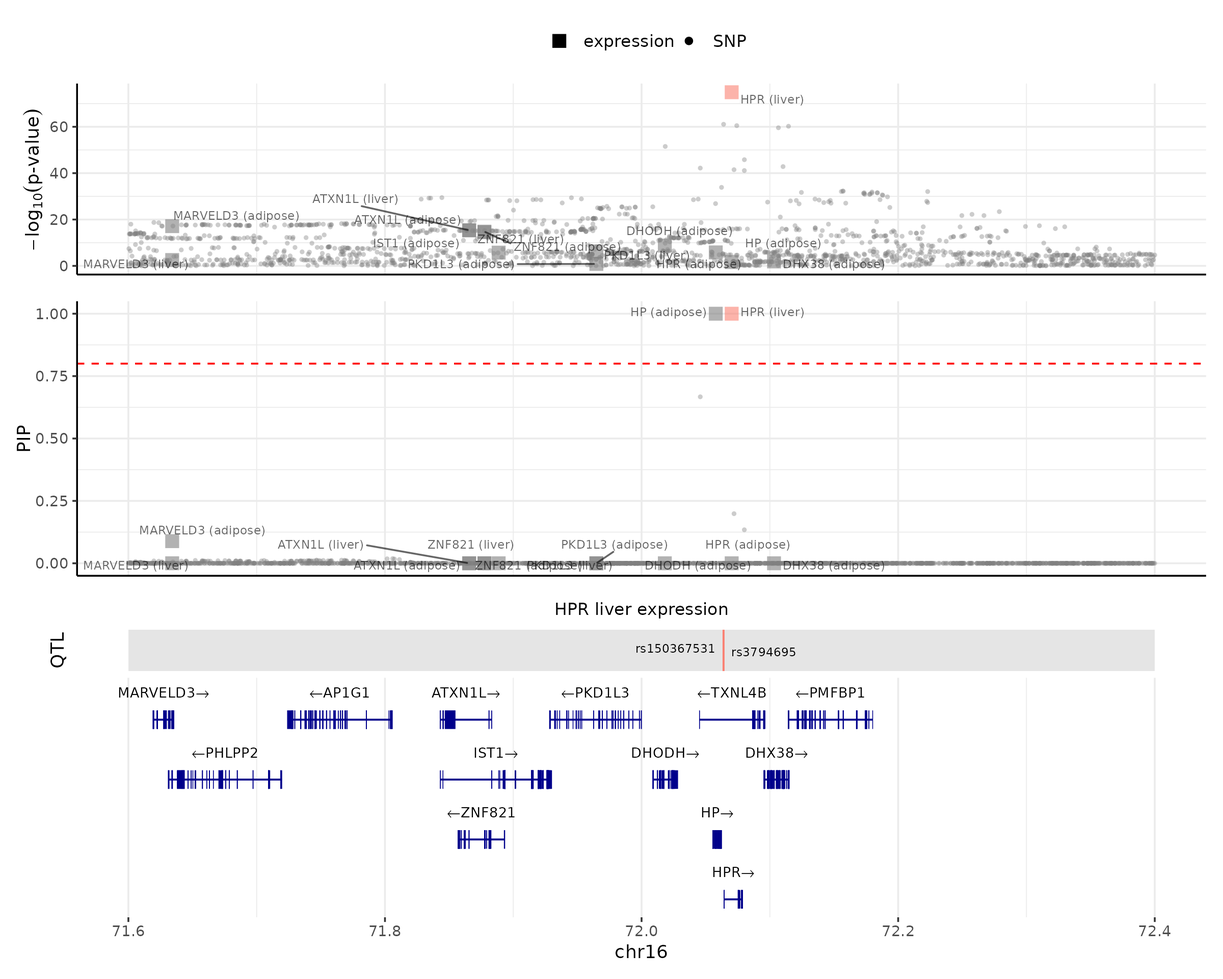
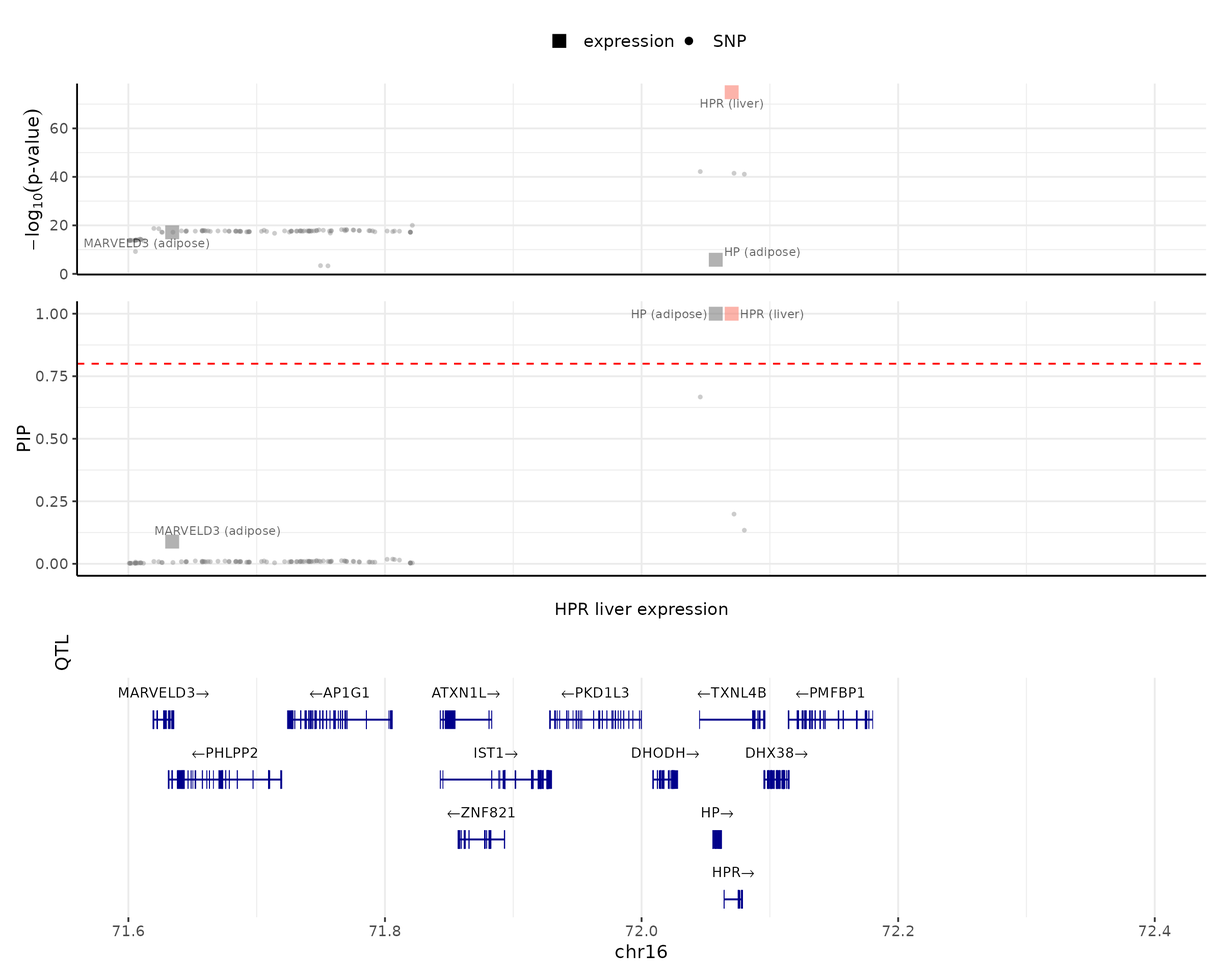
update tutorials and webpages

diff --git a/docs/articles/summarizing_results.html b/docs/articles/summarizing_results.html
@@ -89,7 +89,7 @@
       <h1 data-toc-skip>Summarizing and visualizing cTWAS results</h1>
                         <h4 data-toc-skip class="author">Kaixuan Luo, Sheng Qian</h4>
             
-            <h4 data-toc-skip class="date">2024-08-12</h4>
+            <h4 data-toc-skip class="date">2024-08-13</h4>
       
       <small class="dont-index">Source: <a href="https://github.com/xinhe-lab/ctwas/blob/multigroup/vignettes/summarizing_results.Rmd" class="external-link"><code>vignettes/summarizing_results.Rmd</code></a></small>
       <div class="hidden name"><code>summarizing_results.Rmd</code></div>
@@ -172,7 +172,7 @@
 <div class="section level2">
 <h2 id="inspecting-the-ctwas-results">Inspecting the cTWAS results<a class="anchor" aria-label="anchor" href="#inspecting-the-ctwas-results"></a>
 </h2>
-<p>We can view the molecular traits above a certain PIP cutoff, e.g. PIP &gt; 0.8, by:</p>
+<p>We can view the molecular traits above a certain PIP cutoff, e.g. PIP &gt; 0.8 and limit to credible sets, by:</p>
 <div class="sourceCode" id="cb8"><pre class="downlit sourceCode r">
 <code class="sourceCode R"><span><span class="fu"><a href="https://rdrr.io/r/base/subset.html" class="external-link">subset</a></span><span class="op">(</span><span class="va">finemap_res</span>, <span class="va">group</span> <span class="op">!=</span> <span class="st">"SNP"</span> <span class="op">&amp;</span> <span class="va">susie_pip</span> <span class="op">&gt;</span> <span class="fl">0.8</span> <span class="op">&amp;</span> <span class="va">cs_index</span> <span class="op">!=</span> <span class="fl">0</span><span class="op">)</span></span></code></pre></div>
 <pre><code><span><span class="co">##                                                       id       type context</span></span>
@@ -208,32 +208,38 @@
 <p>We then use the <code><a href="../reference/anno_finemap_res.html">anno_finemap_res()</a></code> function to add gene annotations to the fine-mapping result, and use gene mid-points to represent gene positions.</p>
 <div class="sourceCode" id="cb13"><pre class="downlit sourceCode r">
 <code class="sourceCode R"><span><span class="va">finemap_res</span> <span class="op">&lt;-</span> <span class="fu"><a href="../reference/anno_finemap_res.html">anno_finemap_res</a></span><span class="op">(</span><span class="va">finemap_res</span>, <span class="va">snp_map</span>, <span class="va">gene_annot</span>,</span>
-<span>                                use_gene_pos <span class="op">=</span> <span class="st">"mid"</span><span class="op">)</span></span></code></pre></div>
-<pre><code><span><span class="co">## 2024-08-12 17:24:36 INFO::Annotating ctwas finemapping result ...</span></span>
-<span><span class="co">## 2024-08-12 17:24:36 INFO::add gene_name and gene_type</span></span>
-<span><span class="co">## 2024-08-12 17:24:36 INFO::use gene mid positions</span></span>
-<span><span class="co">## 2024-08-12 17:24:36 INFO::add SNP positions</span></span></code></pre>
+<span>                                use_gene_pos <span class="op">=</span> <span class="st">"mid"</span>,</span>
+<span>                                drop_unannotated_genes <span class="op">=</span> <span class="cn">TRUE</span>,</span>
+<span>                                filter_protein_coding_genes <span class="op">=</span> <span class="cn">TRUE</span>,</span>
+<span>                                filter_cs <span class="op">=</span> <span class="cn">TRUE</span><span class="op">)</span></span></code></pre></div>
+<pre><code><span><span class="co">## 2024-08-13 11:03:26 INFO::Annotating ctwas finemapping result ...</span></span>
+<span><span class="co">## 2024-08-13 11:03:27 INFO::keep only protein coding genes</span></span>
+<span><span class="co">## 2024-08-13 11:03:27 INFO::keep only results in credible sets</span></span>
+<span><span class="co">## 2024-08-13 11:03:27 INFO::add gene_name and gene_type</span></span>
+<span><span class="co">## 2024-08-13 11:03:27 INFO::use gene mid positions</span></span>
+<span><span class="co">## 2024-08-13 11:03:27 INFO::add SNP positions</span></span></code></pre>
+<p>We can drop unannotated genes by setting <code>drop_unannotated_genes = TRUE</code>, limit to protein coding genes by setting <code>filter_protein_coding_genes = TRUE</code>, and limit to credible sets by setting <code>filter_cs = TRUE</code>.</p>
 <p>You can now run the command at the beginning of this section to view the genes with additional information.</p>
 <div class="sourceCode" id="cb15"><pre class="downlit sourceCode r">
 <code class="sourceCode R"><span><span class="fu"><a href="https://rdrr.io/r/base/subset.html" class="external-link">subset</a></span><span class="op">(</span><span class="va">finemap_res</span>, <span class="va">group</span> <span class="op">!=</span> <span class="st">"SNP"</span> <span class="op">&amp;</span> <span class="va">susie_pip</span> <span class="op">&gt;</span> <span class="fl">0.8</span> <span class="op">&amp;</span> <span class="va">cs_index</span> <span class="op">!=</span> <span class="fl">0</span><span class="op">)</span></span></code></pre></div>
-<pre><code><span><span class="co">##     chrom      pos            gene_id gene_name      gene_type</span></span>
-<span><span class="co">## 51     16 56972848 ENSG00000087237.10      CETP protein_coding</span></span>
-<span><span class="co">## 111    16 72070235  ENSG00000261701.6       HPR protein_coding</span></span>
-<span><span class="co">## 124    16 72057824  ENSG00000257017.8        HP protein_coding</span></span>
-<span><span class="co">##                                                     id       type context</span></span>
-<span><span class="co">## 51  ENSG00000087237.10|expression_Adipose_Subcutaneous expression adipose</span></span>
-<span><span class="co">## 111                 ENSG00000261701.6|expression_Liver expression   liver</span></span>
-<span><span class="co">## 124  ENSG00000257017.8|expression_Adipose_Subcutaneous expression adipose</span></span>
-<span><span class="co">##                  group          z            region_id susie_pip      mu2</span></span>
-<span><span class="co">## 51  expression|adipose  13.749840 16_55869862_57630418 0.9999483 145.7879</span></span>
-<span><span class="co">## 111   expression|liver -18.403150 16_71020125_72901251 1.0000000 474.3442</span></span>
-<span><span class="co">## 124 expression|adipose  -4.810203 16_71020125_72901251 1.0000000 420.6018</span></span>
-<span><span class="co">##     cs_index</span></span>
-<span><span class="co">## 51         1</span></span>
-<span><span class="co">## 111        1</span></span>
-<span><span class="co">## 124        3</span></span></code></pre>
+<pre><code><span><span class="co">##   chrom      pos            gene_id gene_name      gene_type</span></span>
+<span><span class="co">## 1    16 56972848 ENSG00000087237.10      CETP protein_coding</span></span>
+<span><span class="co">## 2    16 72070235  ENSG00000261701.6       HPR protein_coding</span></span>
+<span><span class="co">## 4    16 72057824  ENSG00000257017.8        HP protein_coding</span></span>
+<span><span class="co">##                                                   id       type context</span></span>
+<span><span class="co">## 1 ENSG00000087237.10|expression_Adipose_Subcutaneous expression adipose</span></span>
+<span><span class="co">## 2                 ENSG00000261701.6|expression_Liver expression   liver</span></span>
+<span><span class="co">## 4  ENSG00000257017.8|expression_Adipose_Subcutaneous expression adipose</span></span>
+<span><span class="co">##                group          z            region_id susie_pip      mu2</span></span>
+<span><span class="co">## 1 expression|adipose  13.749840 16_55869862_57630418 0.9999483 145.7879</span></span>
+<span><span class="co">## 2   expression|liver -18.403150 16_71020125_72901251 1.0000000 474.3442</span></span>
+<span><span class="co">## 4 expression|adipose  -4.810203 16_71020125_72901251 1.0000000 420.6018</span></span>
+<span><span class="co">##   cs_index</span></span>
+<span><span class="co">## 1        1</span></span>
+<span><span class="co">## 2        1</span></span>
+<span><span class="co">## 4        3</span></span></code></pre>
 <p>In this example, HPR gene in liver, HP gene in adipose, and CETP gene in adipose are the only three genes that satisfy this threshold.</p>
-<p>When we have multiple contexts (tissues), it is useful to evaluate the total evidence of a gene being causal, <em>combining evidence of all the molecular traits affecting this gene across all types and contexts.</em> This is done by summing up the PIPs of all these molecular traits of the same gene, expressed as the combined PIP of this gene.</p>
+<p>When we have multiple contexts (tissues), it is useful to evaluate the total evidence of a gene being causal, <em>combining evidence of all the molecular traits affecting this gene across all types and contexts.</em> We compute combined PIPs of all these molecular traits of the same gene, using the following formula: <math display="inline" xmlns="http://www.w3.org/1998/Math/MathML"><semantics><mrow><mn>1</mn><mo>−</mo><msub><mo>∏</mo><mi>k</mi></msub><mo stretchy="false" form="prefix">(</mo><mn>1</mn><mo>−</mo><msub><mtext mathvariant="normal">PIP</mtext><mi>k</mi></msub><mo stretchy="false" form="postfix">)</mo></mrow><annotation encoding="application/x-tex">1 - \prod_k (1 - \text{PIP}_k)</annotation></semantics></math>, where <math display="inline" xmlns="http://www.w3.org/1998/Math/MathML"><semantics><msub><mtext mathvariant="normal">PIP</mtext><mi>k</mi></msub><annotation encoding="application/x-tex">\text{PIP}_k</annotation></semantics></math> is the PIP of the <math display="inline" xmlns="http://www.w3.org/1998/Math/MathML"><semantics><mi>k</mi><annotation encoding="application/x-tex">k</annotation></semantics></math>-th molecular trait of a gene.</p>
 <p>For example, we can combine PIPs of the same gene by context. We could limit results in protein coding genes by setting <code>filter_protein_coding_genes = TRUE</code>, and limit results in credible sets by setting <code>filter_cs = TRUE</code>.</p>
 <div class="sourceCode" id="cb17"><pre class="downlit sourceCode r">
 <code class="sourceCode R"><span><span class="va">combined_pip_by_context</span> <span class="op">&lt;-</span> <span class="fu"><a href="../reference/combine_gene_pips.html">combine_gene_pips</a></span><span class="op">(</span><span class="va">finemap_res</span>, </span>
@@ -271,11 +277,11 @@
 <span>               highlight_pip <span class="op">=</span> <span class="fl">0.8</span>,</span>
 <span>               R_snp_gene <span class="op">=</span> <span class="va">cor_res</span><span class="op">$</span><span class="va">R_snp_gene</span>,</span>
 <span>               R_gene <span class="op">=</span> <span class="va">cor_res</span><span class="op">$</span><span class="va">R_gene</span><span class="op">)</span></span></code></pre></div>
-<pre><code><span><span class="co">## 2024-08-12 17:24:38 INFO::focal gene: HPR</span></span>
-<span><span class="co">## 2024-08-12 17:24:38 INFO::focal id: ENSG00000261701.6|expression_Liver</span></span>
-<span><span class="co">## 2024-08-12 17:24:38 INFO::plot locus range: chr16 71600000,72400000</span></span>
-<span><span class="co">## 2024-08-12 17:24:38 INFO::HPR liver expression QTLs</span></span>
-<span><span class="co">## 2024-08-12 17:24:38 INFO::QTL positions: 72063820,72063928</span></span></code></pre>
+<pre><code><span><span class="co">## 2024-08-13 11:03:28 INFO::focal gene: HPR</span></span>
+<span><span class="co">## 2024-08-13 11:03:28 INFO::focal id: ENSG00000261701.6|expression_Liver</span></span>
+<span><span class="co">## 2024-08-13 11:03:28 INFO::plot locus range: chr16 71600000,72400000</span></span>
+<span><span class="co">## 2024-08-13 11:03:31 INFO::HPR liver expression QTLs</span></span>
+<span><span class="co">## 2024-08-13 11:03:31 INFO::QTL positions:</span></span></code></pre>
 <div class="figure" style="text-align: center">
 <img src="summarizing_results_files/figure-html/locus_plot-1.png" alt="&amp;nbsp;" width="1200"><p class="caption">
  
@@ -291,11 +297,11 @@
 <span>               ens_db <span class="op">=</span> <span class="va">ens_db</span>,</span>
 <span>               locus_range <span class="op">=</span> <span class="fu"><a href="https://rdrr.io/r/base/c.html" class="external-link">c</a></span><span class="op">(</span><span class="fl">71.6e6</span>,<span class="fl">72.4e6</span><span class="op">)</span>,</span>
 <span>               highlight_pip <span class="op">=</span> <span class="fl">0.8</span><span class="op">)</span></span></code></pre></div>
-<pre><code><span><span class="co">## 2024-08-12 17:24:40 INFO::focal gene: HPR</span></span>
-<span><span class="co">## 2024-08-12 17:24:40 INFO::focal id: ENSG00000261701.6|expression_Liver</span></span>
-<span><span class="co">## 2024-08-12 17:24:40 INFO::plot locus range: chr16 71600000,72400000</span></span>
-<span><span class="co">## 2024-08-12 17:24:40 INFO::HPR liver expression QTLs</span></span>
-<span><span class="co">## 2024-08-12 17:24:40 INFO::QTL positions: 72063820,72063928</span></span></code></pre>
+<pre><code><span><span class="co">## 2024-08-13 11:03:32 INFO::focal gene: HPR</span></span>
+<span><span class="co">## 2024-08-13 11:03:32 INFO::focal id: ENSG00000261701.6|expression_Liver</span></span>
+<span><span class="co">## 2024-08-13 11:03:32 INFO::plot locus range: chr16 71600000,72400000</span></span>
+<span><span class="co">## 2024-08-13 11:03:32 INFO::HPR liver expression QTLs</span></span>
+<span><span class="co">## 2024-08-13 11:03:32 INFO::QTL positions:</span></span></code></pre>
 <div class="figure" style="text-align: center">
 <img src="summarizing_results_files/figure-html/locus_plot_noLD-1.png" alt="&amp;nbsp;" width="1200"><p class="caption">
  

diff --git a/docs/articles/running_ctwas_analysis.html b/docs/articles/running_ctwas_analysis.html
@@ -89,7 +89,7 @@
       <h1 data-toc-skip>Running cTWAS analysis</h1>
                         <h4 data-toc-skip class="author">Kaixuan Luo, Sheng Qian</h4>
             
-            <h4 data-toc-skip class="date">2024-08-12</h4>
+            <h4 data-toc-skip class="date">2024-08-13</h4>
       
       <small class="dont-index">Source: <a href="https://github.com/xinhe-lab/ctwas/blob/multigroup/vignettes/running_ctwas_analysis.Rmd" class="external-link"><code>vignettes/running_ctwas_analysis.Rmd</code></a></small>
       <div class="hidden name"><code>running_ctwas_analysis.Rmd</code></div>
@@ -135,6 +135,7 @@
 <span>                            filter_L <span class="op">=</span> <span class="cn">TRUE</span>,</span>
 <span>                            filter_nonSNP_PIP <span class="op">=</span> <span class="cn">FALSE</span>,</span>
 <span>                            min_nonSNP_PIP <span class="op">=</span> <span class="fl">0.5</span>,</span>
+<span>                            min_abs_corr <span class="op">=</span> <span class="fl">0.1</span>, </span>
 <span>                            ncore <span class="op">=</span> <span class="fl">6</span>, </span>
 <span>                            ncore_LD <span class="op">=</span> <span class="fl">4</span>,</span>
 <span>                            save_cor <span class="op">=</span> <span class="cn">TRUE</span>, </span>
@@ -146,7 +147,8 @@
 <li><p><code>maxSNP</code>: maximum number of SNPs in a region (e.g. 20000). Default is Inf, no limit. This can be useful if there are too many SNPs in a region and you don’t have enough memory to run the program.</p></li>
 <li><p><code>group_prior_var_stucture</code>: options to control how parameters are shared among groups. For example, “shared_type” (default option) allows all groups in one molecular QTL type to share the same variance parameter. “independent” allows all groups to have their own separate variance parameters. More options can be found in the Reference page of the function.</p></li>
 <li><p><code>filter_L</code>: if <code>filter_L = TRUE</code> (the default option), cTWAS will first estimate the number of causal signals (<code>L</code>) for each region. This step is done using uniform prior, treating all variants and genes equally. From the results, we obtain the number of credible sets (<code>L</code>). We then select regions with at least one credible set, L &gt; 0.</p></li>
-<li><p><code>filter_nonSNP_PIP</code> and <code>min_nonSNP_PIP</code>: if <code>filter_nonSNP_PIP = TRUE</code>, it will compute the non-SNP PIP, i.e. the total PIP of all molecular traits, for each region (using the estimated parameters) and select regions with non-SNP PIP &gt; <code>min_nonSNP_PIP</code> (0.5 by default`).</p></li>
+<li><p><code>filter_nonSNP_PIP</code> and <code>min_nonSNP_PIP</code>: if <code>filter_nonSNP_PIP = TRUE</code>, it will compute the non-SNP PIP, i.e. the total PIP of all molecular traits, for each region (using the estimated parameters) and select regions with non-SNP PIP &gt; <code>min_nonSNP_PIP</code> (0.5 by default).</p></li>
+<li><p><code>min_abs_corr</code>: Minimum absolute correlation allowed in a credible set. cTWAs jointly fine-maps both SNPs and molecular traits, the correlations between SNPs and molecular traits could be lower than standard fine-mapping with SNPs. We use a lower cutoff (0.1 by default) to avoid missing causal genes.</p></li>
 <li><p><code>ncore</code>: the number of cores to parallelize computing over regions.</p></li>
 <li><p><code>ncore_LD</code>: the number of cores to parallelize computing over regions with LD matrices. During screening regions and fine-mapping steps, computing correlation matrices requires larger memory. You could reduce the number of cores for these steps to avoid insufficient memory.</p></li>
 <li><p><code>save_cor</code> and <code>cor_dir</code>: if <code>save_cor = TRUE</code>, we save the correlation matrices in the <code>cor_dir</code>directory, which will be used later for visualizing the results.</p></li>
@@ -213,7 +215,7 @@
 <p>After parameter estimation, we use the <code><a href="../reference/screen_regions.html">screen_regions()</a></code> function to perform a screening process to select regions with likely causal signals in molecular traits. To find these regions, we perform an initial fine-mapping with thinned SNPs (a subset of all variants, see the Section “Assemble input data”). Only these regions would be subject to full fine-mapping analysis, using all variants, in the final step. Thus screening regions can save computational time.</p>
 <p>cTWAS have two options to screen regions:</p>
 <ul>
-<li><p>screening by the number of causal signals: if <code>filter_L = TRUE</code> (the default option), cTWAS will first estimate the number of causal signals (<code>L</code>) for each region. This step is done using uniform prior (<code>group_prior = NULL</code> and <code>group_prior_var = NULL</code>), treating all variants and molecular traits equally. From the results, we obtain the number of credible sets (<code>L</code>). We then select regions with at least one credible set, L &gt; 0.</p></li>
+<li><p>screening by the number of causal signals: if <code>filter_L = TRUE</code> (the default option), cTWAS will first estimate the number of causal signals (<code>L</code>) for each region. This step is done by running fine-mapping using uniform prior (<code>group_prior = NULL</code> and <code>group_prior_var = NULL</code>), treating all variants and molecular traits equally. From the results, we obtain the number of credible sets (<code>L</code>). We then select regions with at least one credible set, L &gt; 0.</p></li>
 <li><p>screening by non-SNP PIPs: if <code>filter_nonSNP_PIP = TRUE</code>, cTWAS will compute the non-SNP PIP, i.e. total PIP of all molecular traits, for each region (using estimated L and estimated priors). It then selects regions by applying a <code>min_nonSNP_PIP</code> cutoff (0.5, by default).</p></li>
 </ul>
 <p>When running with LD, we recommend screening by the number of causal signals, i.e. setting <code>filter_L = TRUE</code> and <code>filter_nonSNP_PIP = FALSE</code>.</p>
@@ -223,6 +225,7 @@
 <span>                             weights <span class="op">=</span> <span class="va">weights</span>, </span>
 <span>                             filter_L <span class="op">=</span> <span class="cn">TRUE</span>,</span>
 <span>                             filter_nonSNP_PIP <span class="op">=</span> <span class="cn">FALSE</span>,</span>
+<span>                             min_abs_corr <span class="op">=</span> <span class="fl">0.1</span>, </span>
 <span>                             group_prior <span class="op">=</span> <span class="cn">NULL</span>,</span>
 <span>                             group_prior_var <span class="op">=</span> <span class="cn">NULL</span>, </span>
 <span>                             ncore <span class="op">=</span> <span class="fl">4</span><span class="op">)</span></span>
@@ -230,6 +233,7 @@
 <span><span class="va">screened_region_L</span> <span class="op">&lt;-</span> <span class="va">screen_res</span><span class="op">$</span><span class="va">screened_region_L</span></span>
 <span><span class="va">screen_summary</span> <span class="op">&lt;-</span> <span class="va">screen_res</span><span class="op">$</span><span class="va">screen_summary</span></span></code></pre></div>
 <p>It returns <code>screened_region_data</code> which contains a subset of region data for selected regions. It also returns the estimated L (number of credible sets) for the selected regions, which could be used in the fine-mapping step to set L for each region. In addition, it returns a data frame <code>screen_summary</code>, which includes the estimated L and non-SNP PIPs for all the regions.</p>
+<p>Note, cTWAs jointly fine-maps both SNPs and molecular traits, the correlations between SNPs and molecular traits could be lower than standard fine-mapping with SNPs. Thus, we set a lower purity cutoff (default option: <code>min_abs_corr = 0.1</code>) for obtaining credible sets to avoid missing causal genes.</p>
 <p>When running without LD, we could use the <code><a href="../reference/screen_regions_noLD.html">screen_regions_noLD()</a></code> function; it would only perform screening regions by non-SNP PIPs.</p>
 <div class="sourceCode" id="cb8"><pre class="downlit sourceCode r">
 <code class="sourceCode R"><span><span class="va">screen_res</span> <span class="op">&lt;-</span> <span class="fu"><a href="../reference/screen_regions_noLD.html">screen_regions_noLD</a></span><span class="op">(</span><span class="va">region_data</span>,</span>
@@ -256,15 +260,17 @@
 <p>We now perform the fine-mapping step for each of the screened regions with the estimated parameters.</p>
 <p>The <code><a href="../reference/finemap_regions.html">finemap_regions()</a></code> function performs fine-mapping for the regions in the <code>screened_region_data</code>.</p>
 <p>It first computes correlation matrices among all variables included in fine-mapping (SNPs, and molecular traits), then runs fine-mapping with estimated parameters (<code>group_prior</code> and <code>group_prior_var</code>) and estimated number of causal signals (<code>L</code>), and returns a data frame with fine-mapping results for the regions.</p>
-<div class="sourceCode" id="cb10"><pre class="sourceCode r"><code class="sourceCode r"><span id="cb10-1"><a href="#cb10-1"></a>finemap_res &lt;-<span class="st"> </span><span class="kw">finemap_regions</span>(screened_region_data,</span>
-<span id="cb10-2"><a href="#cb10-2"></a>                               <span class="dt">LD_map =</span> LD_map,</span>
-<span id="cb10-3"><a href="#cb10-3"></a>                               <span class="dt">weights =</span> weights,</span>
-<span id="cb10-4"><a href="#cb10-4"></a>                               <span class="dt">group_prior =</span> group_prior,</span>
-<span id="cb10-5"><a href="#cb10-5"></a>                               <span class="dt">group_prior_var =</span> group_prior_var,</span>
-<span id="cb10-6"><a href="#cb10-6"></a>                               <span class="dt">L =</span> screened_region_L</span>
-<span id="cb10-7"><a href="#cb10-7"></a>                               <span class="dt">save_cor =</span> <span class="ot">TRUE</span>,</span>
-<span id="cb10-8"><a href="#cb10-8"></a>                               <span class="dt">cor_dir =</span> <span class="st">"./cor_matrix"</span>,</span>
-<span id="cb10-9"><a href="#cb10-9"></a>                               <span class="dt">ncore =</span> <span class="dv">4</span>)</span></code></pre></div>
+<div class="sourceCode" id="cb10"><pre class="downlit sourceCode r">
+<code class="sourceCode R"><span><span class="va">finemap_res</span> <span class="op">&lt;-</span> <span class="fu"><a href="../reference/finemap_regions.html">finemap_regions</a></span><span class="op">(</span><span class="va">screened_region_data</span>,</span>
+<span>                               LD_map <span class="op">=</span> <span class="va">LD_map</span>,</span>
+<span>                               weights <span class="op">=</span> <span class="va">weights</span>,</span>
+<span>                               group_prior <span class="op">=</span> <span class="va">group_prior</span>,</span>
+<span>                               group_prior_var <span class="op">=</span> <span class="va">group_prior_var</span>,</span>
+<span>                               L <span class="op">=</span> <span class="va">screened_region_L</span>,</span>
+<span>                               min_abs_corr <span class="op">=</span> <span class="fl">0.1</span>, </span>
+<span>                               save_cor <span class="op">=</span> <span class="cn">TRUE</span>,</span>
+<span>                               cor_dir <span class="op">=</span> <span class="st">"./cor_matrix"</span>,</span>
+<span>                               ncore <span class="op">=</span> <span class="fl">4</span><span class="op">)</span></span></code></pre></div>
 <p>We can save the computed correlation matrices to the directory <code>cor_dir</code> for future access, by setting <code>save_cor = TRUE</code>.</p>
 <p><em>Note:</em> when screening regions and fine-mapping with LD, we need larger memory to load LD matrices and compute correlation matrices. So we recommend increasing memory or reducing the number of <code>ncore</code> for these steps.</p>
 <p><em>Note:</em> we could use the <code><a href="../reference/finemap_regions_noLD.html">finemap_regions_noLD()</a></code> function to run fine-mapping without LD:</p>

diff --git a/docs/articles/minimal_tutorial.html b/docs/articles/minimal_tutorial.html
@@ -89,7 +89,7 @@
       <h1 data-toc-skip>A minimal tutorial of running cTWAS without LD</h1>
                         <h4 data-toc-skip class="author">Kaixuan Luo, Sheng Qian</h4>
             
-            <h4 data-toc-skip class="date">2024-08-12</h4>
+            <h4 data-toc-skip class="date">2024-08-13</h4>
       
       <small class="dont-index">Source: <a href="https://github.com/xinhe-lab/ctwas/blob/multigroup/vignettes/minimal_tutorial.Rmd" class="external-link"><code>vignettes/minimal_tutorial.Rmd</code></a></small>
       <div class="hidden name"><code>minimal_tutorial.Rmd</code></div>
@@ -163,14 +163,14 @@
 <p>The GWAS summary statistics needs to be “harmonized” before use. This means, for example, the allele definitions need to be consistent with the reference SNP data in <code>snp_map</code>. Harmonization is achieved through the <code><a href="../reference/preprocess_z_snp.html">preprocess_z_snp()</a></code> function. We filter out multiallelic variants and strand-ambiguous variants by default.</p>
 <div class="sourceCode" id="cb8"><pre class="downlit sourceCode r">
 <code class="sourceCode R"><span><span class="va">z_snp</span> <span class="op">&lt;-</span> <span class="fu"><a href="../reference/preprocess_z_snp.html">preprocess_z_snp</a></span><span class="op">(</span><span class="va">z_snp</span>, <span class="va">snp_map</span><span class="op">)</span></span></code></pre></div>
-<pre><code><span><span class="co">## 2024-08-12 17:20:53 INFO::Preprocessing z_snp...</span></span>
-<span><span class="co">## 2024-08-12 17:20:53 INFO::z_snp has 407828 variants in total</span></span>
-<span><span class="co">## 2024-08-12 17:20:53 INFO::267361 variants left after filtering by snp_map</span></span>
-<span><span class="co">## 2024-08-12 17:20:53 INFO::Drop 30 multiallelic variants</span></span>
-<span><span class="co">## 2024-08-12 17:20:54 INFO::Harmonize 267331 variants in both GWAS and LD reference</span></span>
-<span><span class="co">## 2024-08-12 17:20:54 INFO::Flip signs for 267289 (99.98%) variants</span></span>
-<span><span class="co">## 2024-08-12 17:20:54 INFO::Remove 45738 strand ambiguous variants</span></span>
-<span><span class="co">## 2024-08-12 17:20:54 INFO::221593 variants left after preprocessing and harmonization.</span></span></code></pre>
+<pre><code><span><span class="co">## 2024-08-13 10:59:40 INFO::Preprocessing z_snp...</span></span>
+<span><span class="co">## 2024-08-13 10:59:40 INFO::z_snp has 407828 variants in total</span></span>
+<span><span class="co">## 2024-08-13 10:59:40 INFO::267361 variants left after filtering by snp_map</span></span>
+<span><span class="co">## 2024-08-13 10:59:40 INFO::Drop 30 multiallelic variants</span></span>
+<span><span class="co">## 2024-08-13 10:59:41 INFO::Harmonize 267331 variants in both GWAS and LD reference</span></span>
+<span><span class="co">## 2024-08-13 10:59:41 INFO::Flip signs for 267289 (99.98%) variants</span></span>
+<span><span class="co">## 2024-08-13 10:59:41 INFO::Remove 45738 strand ambiguous variants</span></span>
+<span><span class="co">## 2024-08-13 10:59:41 INFO::221593 variants left after preprocessing and harmonization.</span></span></code></pre>
 </div>
 <div class="section level3">
 <h3 id="prediction-models-of-molecular-traits">Prediction models of molecular traits<a class="anchor" aria-label="anchor" href="#prediction-models-of-molecular-traits"></a>
@@ -186,18 +186,18 @@
 <span>                                    <span class="va">snp_map</span>,</span>
 <span>                                    type <span class="op">=</span> <span class="st">"expression"</span>,</span>
 <span>                                    context <span class="op">=</span> <span class="st">"liver"</span><span class="op">)</span></span></code></pre></div>
-<pre><code><span><span class="co">## 2024-08-12 17:20:55 INFO::Load weight: /tmp/jobs/41340764/RtmpPwpRdJ/temp_libpath9a06d2217d0/ctwas/extdata/sample_data/expression_Liver.db</span></span>
-<span><span class="co">## 2024-08-12 17:20:55 INFO::type: expression</span></span>
-<span><span class="co">## 2024-08-12 17:20:55 INFO::context: liver</span></span>
-<span><span class="co">## 2024-08-12 17:20:55 INFO::Loading PredictDB weights ...</span></span>
-<span><span class="co">## 2024-08-12 17:20:55 INFO::Keep protein coding genes only</span></span>
-<span><span class="co">## 2024-08-12 17:20:55 INFO::weight_name: expression_Liver</span></span>
-<span><span class="co">## 2024-08-12 17:20:55 INFO::Remove 1 genes without predictdb LD</span></span>
-<span><span class="co">## 2024-08-12 17:20:55 INFO::Number of genes with weights: 11479</span></span>
-<span><span class="co">## 2024-08-12 17:20:55 INFO::Number of variants in weights: 16929</span></span>
-<span><span class="co">## 2024-08-12 17:20:55 INFO::529 genes and 410 variants left after filtering by GWAS and LD reference</span></span>
-<span><span class="co">## 2024-08-12 17:20:55 INFO::Harmonizing and processing weights ...</span></span>
-<span><span class="co">## 2024-08-12 17:20:56 INFO::Number of genes with weights after preprocessing: 410</span></span></code></pre>
+<pre><code><span><span class="co">## 2024-08-13 10:59:41 INFO::Load weight: /tmp/jobs/41346776/RtmpfymbN0/temp_libpathda1343f4466e/ctwas/extdata/sample_data/expression_Liver.db</span></span>
+<span><span class="co">## 2024-08-13 10:59:41 INFO::type: expression</span></span>
+<span><span class="co">## 2024-08-13 10:59:41 INFO::context: liver</span></span>
+<span><span class="co">## 2024-08-13 10:59:41 INFO::Loading PredictDB weights ...</span></span>
+<span><span class="co">## 2024-08-13 10:59:42 INFO::Keep protein coding genes only</span></span>
+<span><span class="co">## 2024-08-13 10:59:42 INFO::weight_name: expression_Liver</span></span>
+<span><span class="co">## 2024-08-13 10:59:42 INFO::Remove 1 genes without predictdb LD</span></span>
+<span><span class="co">## 2024-08-13 10:59:42 INFO::Number of genes with weights: 11479</span></span>
+<span><span class="co">## 2024-08-13 10:59:42 INFO::Number of variants in weights: 16929</span></span>
+<span><span class="co">## 2024-08-13 10:59:42 INFO::529 genes and 410 variants left after filtering by GWAS and LD reference</span></span>
+<span><span class="co">## 2024-08-13 10:59:42 INFO::Harmonizing and processing weights ...</span></span>
+<span><span class="co">## 2024-08-13 10:59:43 INFO::Number of genes with weights after preprocessing: 410</span></span></code></pre>
 <div class="sourceCode" id="cb12"><pre class="downlit sourceCode r">
 <code class="sourceCode R"><span><span class="va">weight_adipose_file</span> <span class="op">&lt;-</span> <span class="fu"><a href="https://rdrr.io/r/base/system.file.html" class="external-link">system.file</a></span><span class="op">(</span><span class="st">"extdata/sample_data"</span>, <span class="st">"expression_Adipose_Subcutaneous.db"</span>, package <span class="op">=</span> <span class="st">"ctwas"</span><span class="op">)</span></span>
 <span><span class="va">weights_adipose</span> <span class="op">&lt;-</span> <span class="fu"><a href="../reference/preprocess_weights.html">preprocess_weights</a></span><span class="op">(</span><span class="va">weight_adipose_file</span>,</span>
@@ -206,18 +206,18 @@
 <span>                                      <span class="va">snp_map</span>,</span>
 <span>                                      type <span class="op">=</span> <span class="st">"expression"</span>,</span>
 <span>                                      context <span class="op">=</span> <span class="st">"adipose"</span><span class="op">)</span></span></code></pre></div>
-<pre><code><span><span class="co">## 2024-08-12 17:20:56 INFO::Load weight: /tmp/jobs/41340764/RtmpPwpRdJ/temp_libpath9a06d2217d0/ctwas/extdata/sample_data/expression_Adipose_Subcutaneous.db</span></span>
-<span><span class="co">## 2024-08-12 17:20:56 INFO::type: expression</span></span>
-<span><span class="co">## 2024-08-12 17:20:56 INFO::context: adipose</span></span>
-<span><span class="co">## 2024-08-12 17:20:56 INFO::Loading PredictDB weights ...</span></span>
-<span><span class="co">## 2024-08-12 17:20:56 INFO::Keep protein coding genes only</span></span>
-<span><span class="co">## 2024-08-12 17:20:56 INFO::weight_name: expression_Adipose_Subcutaneous</span></span>
-<span><span class="co">## 2024-08-12 17:20:56 INFO::Remove 0 genes without predictdb LD</span></span>
-<span><span class="co">## 2024-08-12 17:20:56 INFO::Number of genes with weights: 13102</span></span>
-<span><span class="co">## 2024-08-12 17:20:56 INFO::Number of variants in weights: 23737</span></span>
-<span><span class="co">## 2024-08-12 17:20:56 INFO::720 genes and 484 variants left after filtering by GWAS and LD reference</span></span>
-<span><span class="co">## 2024-08-12 17:20:56 INFO::Harmonizing and processing weights ...</span></span>
-<span><span class="co">## 2024-08-12 17:20:58 INFO::Number of genes with weights after preprocessing: 484</span></span></code></pre>
+<pre><code><span><span class="co">## 2024-08-13 10:59:43 INFO::Load weight: /tmp/jobs/41346776/RtmpfymbN0/temp_libpathda1343f4466e/ctwas/extdata/sample_data/expression_Adipose_Subcutaneous.db</span></span>
+<span><span class="co">## 2024-08-13 10:59:43 INFO::type: expression</span></span>
+<span><span class="co">## 2024-08-13 10:59:43 INFO::context: adipose</span></span>
+<span><span class="co">## 2024-08-13 10:59:43 INFO::Loading PredictDB weights ...</span></span>
+<span><span class="co">## 2024-08-13 10:59:43 INFO::Keep protein coding genes only</span></span>
+<span><span class="co">## 2024-08-13 10:59:43 INFO::weight_name: expression_Adipose_Subcutaneous</span></span>
+<span><span class="co">## 2024-08-13 10:59:43 INFO::Remove 0 genes without predictdb LD</span></span>
+<span><span class="co">## 2024-08-13 10:59:43 INFO::Number of genes with weights: 13102</span></span>
+<span><span class="co">## 2024-08-13 10:59:43 INFO::Number of variants in weights: 23737</span></span>
+<span><span class="co">## 2024-08-13 10:59:43 INFO::720 genes and 484 variants left after filtering by GWAS and LD reference</span></span>
+<span><span class="co">## 2024-08-13 10:59:43 INFO::Harmonizing and processing weights ...</span></span>
+<span><span class="co">## 2024-08-13 10:59:44 INFO::Number of genes with weights after preprocessing: 484</span></span></code></pre>
 <div class="sourceCode" id="cb14"><pre class="downlit sourceCode r">
 <code class="sourceCode R"><span><span class="va">weights</span> <span class="op">&lt;-</span> <span class="fu"><a href="https://rdrr.io/r/base/c.html" class="external-link">c</a></span><span class="op">(</span><span class="va">weights_liver</span>, <span class="va">weights_adipose</span><span class="op">)</span></span></code></pre></div>
 </div>

diff --git a/docs/articles/preparing_input_data.html b/docs/articles/preparing_input_data.html
@@ -89,7 +89,7 @@
       <h1 data-toc-skip>Preparing cTWAS input data</h1>
                         <h4 data-toc-skip class="author">Kaixuan Luo, Sheng Qian</h4>
             
-            <h4 data-toc-skip class="date">2024-08-12</h4>
+            <h4 data-toc-skip class="date">2024-08-13</h4>
       
       <small class="dont-index">Source: <a href="https://github.com/xinhe-lab/ctwas/blob/multigroup/vignettes/preparing_input_data.Rmd" class="external-link"><code>vignettes/preparing_input_data.Rmd</code></a></small>
       <div class="hidden name"><code>preparing_input_data.Rmd</code></div>

diff --git a/docs/articles/utility_functions.html b/docs/articles/utility_functions.html
@@ -89,7 +89,7 @@
       <h1 data-toc-skip>cTWAS utility functions</h1>
                         <h4 data-toc-skip class="author">Kaixuan Luo, Sheng Qian</h4>
             
-            <h4 data-toc-skip class="date">2024-08-12</h4>
+            <h4 data-toc-skip class="date">2024-08-13</h4>
       
       <small class="dont-index">Source: <a href="https://github.com/xinhe-lab/ctwas/blob/multigroup/vignettes/utility_functions.Rmd" class="external-link"><code>vignettes/utility_functions.Rmd</code></a></small>
       <div class="hidden name"><code>utility_functions.Rmd</code></div>

diff --git a/docs/articles/postprocessing.html b/docs/articles/postprocessing.html
@@ -89,7 +89,7 @@
       <h1 data-toc-skip>Post-processing cTWAS results</h1>
                         <h4 data-toc-skip class="author">Kaixuan Luo, Sheng Qian</h4>
             
-            <h4 data-toc-skip class="date">2024-08-12</h4>
+            <h4 data-toc-skip class="date">2024-08-13</h4>
       
       <small class="dont-index">Source: <a href="https://github.com/xinhe-lab/ctwas/blob/multigroup/vignettes/postprocessing.Rmd" class="external-link"><code>vignettes/postprocessing.Rmd</code></a></small>
       <div class="hidden name"><code>postprocessing.Rmd</code></div>

diff --git a/docs/articles/FAQ.html b/docs/articles/FAQ.html
@@ -89,7 +89,7 @@
       <h1 data-toc-skip>FAQ</h1>
                         <h4 data-toc-skip class="author">Kaixuan Luo, Sheng Qian</h4>
             
-            <h4 data-toc-skip class="date">2024-08-12</h4>
+            <h4 data-toc-skip class="date">2024-08-13</h4>
       
       <small class="dont-index">Source: <a href="https://github.com/xinhe-lab/ctwas/blob/multigroup/vignettes/FAQ.Rmd" class="external-link"><code>vignettes/FAQ.Rmd</code></a></small>
       <div class="hidden name"><code>FAQ.Rmd</code></div>
